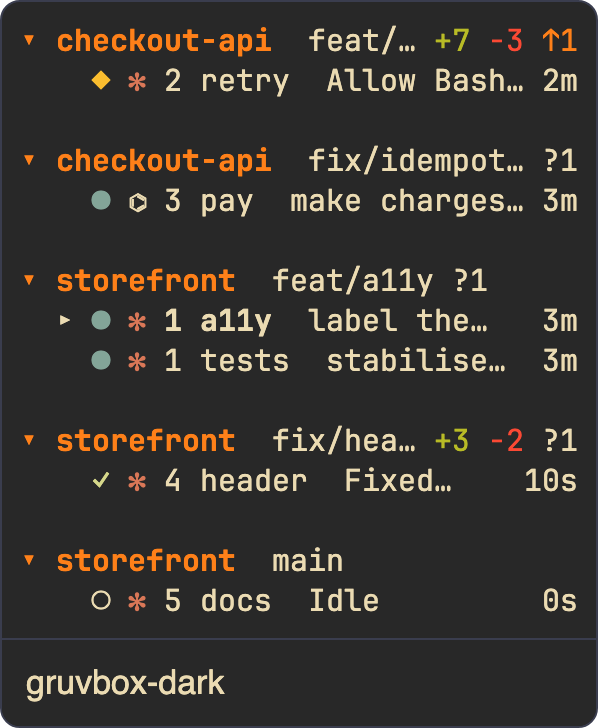
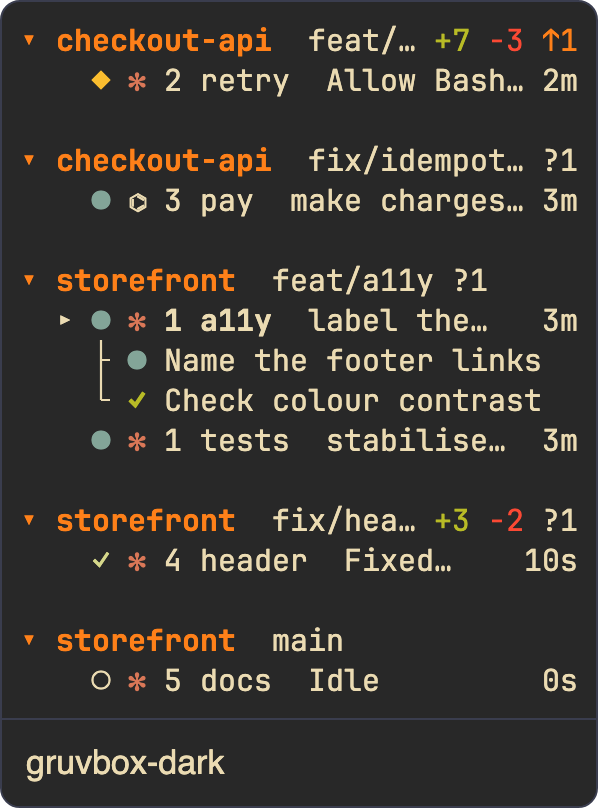
docs(readme): show sub-agents, give the sidebar its own section
The capture script now has a11y hand off two tasks through the real hook
path, so every capture shows a working and a finished sub-agent row. The
README's worktree section keeps the commands and the form; the sidebar,
no longer floated beside text, gets its own section with a legend of
state glyphs and worktree badges and the sub-agent paragraph.

diff --git a/scripts/capture_readme.py b/scripts/capture_readme.py
@@ -39,7 +39,7 @@ COLS, ROWS = 108, 26
 CELL_W, CELL_H, FONT_PX = 9, 20, 15
 PAD = 10
 CAPTION_H = 44
-SIDEBAR = (0, 0, 31, 15)            # the sidebar's rows in the demo session
+SIDEBAR = (0, 0, 31, 17)            # the sidebar's rows in the demo session
 TERM_FG, TERM_BG = "#d5d8e4", "#14151c"
 CHROME = (shutil.which("google-chrome") or shutil.which("chromium")
           or "/Applications/Google Chrome.app/Contents/MacOS/Google Chrome")
@@ -85,8 +85,8 @@ def act(cmd):
     if "screen" in cmd:
         text = "\x1b[?25l\x1b[2J\x1b[H" + cmd["screen"].replace("\n", "\r\n")
         os.write(1, text.encode())
-    if "hook" in cmd:
-        event = dict(cmd["hook"], cwd=os.getcwd())
+    for hook in cmd.get("hooks", [cmd["hook"]] if "hook" in cmd else []):
+        event = dict(hook, cwd=os.getcwd())
         subprocess.run([monarch, "hook", kind], input=json.dumps(event).encode(),
                        stdout=subprocess.DEVNULL, stderr=subprocess.DEVNULL)
     pending = cmd.get("on_key", pending if "on_key" not in cmd else None)
@@ -150,8 +150,13 @@ A11Y = agent_screen("""{g}⏺{x} I'll label the nav landmarks,
 {g}⏺{x} {w}Bash{x}(npm run test:a11y)
   {d}⎿  31 passed, 2 failed{x}
 
-{g}⏺{x} Two failures: the footer links
-  have no accessible name.
+{g}⏺{x} Two failures. Handing them off.
+
+{g}⏺{x} {w}Agent{x}(Name the footer links)
+  {d}⎿  Running in the background{x}
+
+{g}⏺{x} {w}Agent{x}(Check colour contrast)
+  {d}⎿  Done{x}
 
 {o}✻{x} Thinking… {d}(41s){x}""", SPLIT_W)
 TESTS = agent_screen("""{g}⏺{x} I'll run the suite until it's
@@ -229,6 +234,23 @@ SCENE = {
 }
 SPLIT = {"tests": ("claude", "storefront-worktrees/feat-a11y")}
 TABS = ["a11y", "retry", "pay", "header", "docs"]
+
+
+def handoff(agent_id, task, *inside):
+    """a11y's Agent tool starting a background sub-agent for `task`, then
+    the events the sub-agent itself sends (they carry its `agent_id`)."""
+    started = {"hook_event_name": "SubagentStart", "agent_id": agent_id, "agent_type": "general-purpose"}
+    named = {"hook_event_name": "PostToolUse", "tool_name": "Agent", "tool_input": {"description": task},
+             "tool_response": {"status": "async_launched", "agentId": agent_id, "description": task}}
+    return [started, named] + [dict(e, agent_id=agent_id, agent_type="general-purpose") for e in inside]
+
+
+SUBAGENTS = (handoff("a11y-links", "Name the footer links",
+                     {"hook_event_name": "PreToolUse", "tool_name": "Grep",
+                      "tool_input": {"pattern": "<a href", "path": "src/footer.tsx"}})
+             + handoff("a11y-contrast", "Check colour contrast",
+                       {"hook_event_name": "SubagentStop",
+                        "last_assistant_message": "All text meets WCAG AA contrast."}))
 STOP_HEADER = {"hook_event_name": "Stop", "last_assistant_message":
                "Fixed the overlap on narrow screens. The header now wraps below 640px."}
 COMMAND = {"command": "cargo clean && cargo test retry"}
@@ -688,7 +710,9 @@ def start(host):
     host.pump(0.3)
     type_text(host, "a11y")
     host.keys(b"\r")
-    host.pump(2.5)
+    host.pump(0.5)
+    host.tell("a11y", hooks=SUBAGENTS)
+    host.pump(2.0)
 
 
 CAPTIONS = {

diff --git a/docs/plan.md b/docs/plan.md
@@ -406,6 +406,7 @@ Explicitly out of v1: Windows, remote SSH machine management, plugins, image pro
   - [x] Pop-ups stand out (2026-11-16, user's request: "when they pop, I want them more pronounced"): every pop-up (pickers and the inbox, the worktree form, help and agent info, review, the context menu, which-key, the welcome card) now draws through one `PopupFrame` (`widgets/popup_frame.rs`): cleared, filled with the new `popup` theme token (a raised surface: each palette's surface colour, `#eeece6` in monarch-light) with text in `bar_text`, a rounded border in the accent, the title in the accent and key hints dim. Its inside is the same one cell in as before, so placement, clicks and the cursor are unchanged. Under `NO_COLOR` the border is bold on the host's background. `PickerView` and `ContextMenuView` gained `chrome`. `THEME_TOKENS` is 19; `popup` can be overridden in `[theme.colors]`. Theme isn't on the wire, so `Hello::WIRE` is unchanged.
   - [x] Scripts renamed by what they are (2026-11-19, user's request: "not a fan of the spike…py name"): `scripts/<kind>_<subject>`: `smoke_single_pane.py`, `smoke_input_matrix.py`, `smoke_attach.py`, `smoke_mouse.py`, `smoke_restore.py` (were `spike{1,3,4,5,6}_*.py`), `bench_attach.py` (was `perf_attach.py`), `capture_readme.py` (was `readme_shots.py`), `lint_size.sh` (was `lint-size.sh`). References in the justfile, CI, README, DESIGN.md and this plan follow; the scripts' headers, temp-directory prefixes (kept short: macOS caps a socket path at 103 bytes) and `ok` lines no longer say "spike". `just` recipe names are unchanged (`smoke`, `bench-attach`, `readme-shots`, `lint-size`), as is the Rust example `spike4_bench`; CHANGELOG.md keeps the old names as history.
   - [x] README made more professional, images regenerated (2026-11-19, user's request). The "A day with six agents" timeline (timestamp headings) is now a **Features** section with one heading per feature (worktrees, attention inbox, agent state, terminal fidelity, diff review, detach and SSH, restore, automation, themes); casual phrasing is gone, "about two weeks old" and the "Early" note are replaced, the install section gained First run and Upgrading headings. `DESIGN.md` describes the new structure. Every image was regenerated with `just readme-shots` (last done 2026-11-06), so they now show the pop-up surface and accent border, the lower-case mouse badge and the current sidebar; the social preview carries the new tagline and must be re-uploaded by hand in the repo's settings. Alt text for the agent info and restore stills follows the new captures. Not done: the comparison table is still as checked on 2026-11-05; no capture shows sub-agent rows (the scripted agents spawn none).
+  - [x] README shows sub-agents; sidebar gets its own section (2026-11-19, user's request: illustrate sub-agents, and the worktree section's image layout was disliked). `capture_readme.py`: a scripted agent can send several hook events per command (`hooks`), and `a11y` hands off two tasks through the real hook path (`SubagentStart`, the Agent tool's `PostToolUse` naming each by its task, then the sub-agent's own `PreToolUse` or `SubagentStop`), so every capture shows a working and a finished sub-agent row under it; `SIDEBAR` grew to 17 rows. README: the worktree section keeps the commands and the form (centred); the right-floated sidebar became its own section, "Every agent at a glance", with the sidebar centred, a legend of state glyphs and worktree badges, and the sub-agent paragraph. `DESIGN.md`: nothing floats beside text. The social preview changed again and must be re-uploaded by hand.
 - Next up: sub-agent slice 3 (a manifest count capture for hook-less agents: Grok's "Waiting on subagent…", Antigravity's "· N tasks"); mouse report re-encoding for multi-pane layouts; the remnant text re-reported on 2026-11-12 is unreproduced and waits for the user's next sighting (does it survive detach + reattach?); named layouts (`Space`) stay parked by the user's decision on 2026-11-08. Beyond those, the open M1 spikes and known gaps below. v0.1.6 was released on 2026-11-16 UTC (release PR #142: Codex sub-agent rows, pop-ups on their own surface with an accent border, the lower-case mouse badge, two dependency bumps). v0.1.5 was released on 2026-11-16 UTC (release PR #129: Claude Code sub-agent rows in the sidebar, named by their task, the `SubagentStart`/`SubagentStop` hooks, hooks kept in step with the installed build, the breathing working dot); the README and guide now describe sub-agents. v0.1.4 was released on 2026-11-13 UTC (release PR #124: underline styles, the session switch without a flash, emoji presentation width); v0.1.3 on 2026-11-09 (release PR #119). v0.1.2 was released on 2026-11-08 (release PR #113: the remnant-text fix, two dependency bumps). v0.1.1 was released on 2026-11-07 (release PR #102: the agent info overlay and go-to filters, time in state, config settings acted on, key popup fixes; the README's two version mentions, the comparison's latest release and the `cargo install --tag` line, are updated by hand after each release). v0.1.0 was released on 2026-11-06 (tag, GitHub Release with binaries and installer, Homebrew tap formula); crates.io publishing stays off (`git_only`).
 - Known gaps: the client starts the server with its own environment (`monarch server` inherits the attaching shell's cwd and env; fine for one user, revisit for `monarch new`); the startup probe is sent once per attach, not re-sent on FocusGained; the host title is set to the pane's (possibly empty) title on attach and restored on exit; memory is mostly scrollback (≈70 MB per flooded 200-column pane at 10k lines; use `agent_scrollback` for agent panes or compact history later); a pane flooding output costs about one core of parsing even when hidden (inherent to G13; real agents are far below that rate); the writer channel is unbounded (a huge paste into a program that never reads stdin grows memory); mouse reports pass through unre-encoded in the prototype (correct only for one full-screen pane; re-encoding is spike 5); the server must keep the last client's `HostInfo` so panes started before an attach still answer OSC 10/11 with host colours; Claude Code OSC 7501 probe behaviour (spike 2); crates publish as `monarch-mux-*` (`monarch-core` was taken on crates.io; `[lib] name` keeps `monarch_core` imports) and release-plz publishes them in dependency order; releases need repo secrets `RELEASE_PLZ_TOKEN` (PAT), `HOMEBREW_TAP_TOKEN` (PAT with write to `cooksterj/homebrew-monarch`) and `CARGO_REGISTRY_TOKEN`; installer artifact is `monarch-mux-installer.sh`; macOS blocks a process exiting until its tty output is drained, so PTY test harnesses must keep reading
 

diff --git a/README.md b/README.md
@@ -24,7 +24,7 @@ brew tap cooksterj/monarch && brew trust cooksterj/monarch && brew install cooks
 
 <picture>
   <source media="(max-width: 600px)" srcset="docs/assets/hero-phone.webp">
-  <img src="docs/assets/hero.webp" width="100%" alt="A recording of Monarch with six agents in a sidebar grouped by git repository. The agent named retry, in another tab, shows an amber diamond because it needs permission to run a command. The user opens the inbox, types 1 to answer without leaving the pane they are in, and retry goes back to work. They then jump to the agent named header, which has finished, and read its diff.">
+  <img src="docs/assets/hero.webp" width="100%" alt="A recording of Monarch with six agents, and two sub-agents under a11y, in a sidebar grouped by git repository. The agent named retry, in another tab, shows an amber diamond because it needs permission to run a command. The user opens the inbox, types 1 to answer without leaving the pane they are in, and retry goes back to work. They then jump to the agent named header, which has finished, and read its diff.">
 </picture>
 
 <sub>Recorded from the real binary in a PTY. The agents are scripted, the repositories are disposable, and the captions and amber ring were added for the recording. [`scripts/capture_readme.py`](scripts/capture_readme.py) regenerates every image on this page.</sub>
@@ -34,7 +34,7 @@ brew tap cooksterj/monarch && brew trust cooksterj/monarch && brew install cooks
 
 ## Features
 
-[Worktrees](#parallel-agents-in-isolated-worktrees) · [Attention inbox](#an-inbox-for-agents-waiting-on-you) · [Agent state](#where-agent-state-comes-from) · [Terminal fidelity](#terminal-fidelity) · [Diff review](#built-in-diff-review) · [Detach and SSH](#detach-and-reattach-from-anywhere) · [Restore](#restore-after-a-crash) · [Automation](#automation-from-the-cli) · [Themes](#themes-and-key-presets)
+[Worktrees](#parallel-agents-in-isolated-worktrees) · [Sidebar](#every-agent-at-a-glance) · [Attention inbox](#an-inbox-for-agents-waiting-on-you) · [Agent state](#where-agent-state-comes-from) · [Terminal fidelity](#terminal-fidelity) · [Diff review](#built-in-diff-review) · [Detach and SSH](#detach-and-reattach-from-anywhere) · [Restore](#restore-after-a-crash) · [Automation](#automation-from-the-cli) · [Themes](#themes-and-key-presets)
 
 ### Parallel agents in isolated worktrees
 
@@ -46,15 +46,29 @@ monarch new fix/idempotency --agent codex --detached
 monarch new feat/a11y --agent claude
 ```
 
-<img align="right" width="38%" src="docs/assets/sidebar.png" alt="Monarch's sidebar. Panes are grouped under checkout-api and storefront by branch, each with a state glyph, an agent icon, a name and its current activity. One branch shows plus 7, minus 3 and 1 commit to push.">
-
-No configuration is required. The sidebar derives each pane's repository and worktree from its working directory and shows how each checkout differs from its upstream: `+7` `−3` lines changed, `?1` untracked files, `↑1` commits to push.
-
 From inside Monarch, `prefix N` opens the same action as a form. The prefix is `Ctrl-b`, and every key is [rebindable](docs/guide.md#keys).
 
-<img src="docs/assets/worktree.png" width="440" alt="The new worktree form, with the branch name feat/parser typed in and a choice of starting a shell, Claude Code or Codex.">
+<p align="center">
+  <img src="docs/assets/worktree.png" width="560" alt="The new worktree form, with the branch name feat/parser typed in and a choice of starting a shell, Claude Code or Codex.">
+</p>
 
-<br clear="right">
+### Every agent at a glance
+
+The sidebar groups panes by repository and worktree, derived from each pane's working directory with no configuration. Each row shows the agent's state, its program, its name, what it is doing and how long its current turn has taken. Each worktree's heading shows how it differs from its upstream.
+
+<p align="center">
+  <img src="docs/assets/sidebar.png" width="300" alt="Monarch's sidebar. Panes are grouped under checkout-api and storefront by branch, each with a state glyph, an agent icon, a name, its current activity and a stopwatch. Under the a11y agent, two indented sub-agent rows: Name the footer links, working, and Check colour contrast, done. The feat/retry branch shows plus 7, minus 3 and 1 commit to push.">
+</p>
+
+| State | | Worktree badge | |
+|:---:|---|:---:|---|
+| `●` | working | `+7` `−3` | lines added and removed |
+| `◆` | blocked, waiting on you | `?1` | untracked files |
+| `○` | idle | `↑1` `↓1` | commits ahead of and behind upstream |
+| `✓` | done | | |
+| `✗` | error | | |
+
+**Sub-agents** appear as indented rows beneath the agent that started them, named by their task and marked with the same glyphs: Claude Code's sub-agents and teammates, and agents Codex spawns. A sub-agent's question blocks its parent, so it reaches the inbox like any other. Finished rows remain until your next prompt, so you can see what was done.
 
 ### An inbox for agents waiting on you
 
@@ -63,8 +77,6 @@ When an agent in another tab needs a decision, such as permission to run a comma
 `prefix a` opens the attention inbox: every agent waiting on you, longest wait first, with its question or last message and how long it has been waiting. Press `y`, `n` or a number to answer; Monarch sends the reply to that agent in the form it expects, and you stay in your current pane. `Enter` jumps to the agent's pane instead, `prefix Tab` goes directly to the next blocked agent, and `prefix g` then `b` filters the pane list to blocked agents.
 
 <img src="docs/assets/inbox.png" width="640" alt="The inbox. It lists retry, blocked on 'Allow Bash cargo clean and cargo test', and header, done with its last message. A hint line reads: move, enter jump, y/n/1-9 answer, esc close.">
-
-Sub-agents are tracked too. When Claude Code delegates to sub-agents or teammates, or Codex spawns agents, each appears as a row beneath its parent, named by its task and marked with the same state glyphs. A sub-agent's question blocks its parent, so it reaches the inbox like any other. Finished rows remain until your next prompt, so you can see what was done.
 
 ### Where agent state comes from
 

diff --git a/DESIGN.md b/DESIGN.md
@@ -180,7 +180,7 @@ A warm butterfly over cool terminal chrome, where saturated colour is reserved f
 
 The app is a character grid: a sidebar, panes, and a status bar, all whole cells. Density is the terminal's.
 
-The README is a single GitHub column. The mark, name and promise are centred above the install command and a full-width hero. Images size by attribute: `100%` for full screens, `38%` right-floated for the sidebar, `32%` each for the row of three themes, and fixed widths of 440, 560 and 640 for popups and the diagram. `<picture>` swaps in phone crops at `max-width: 600px`.
+The README is a single GitHub column. The mark, name and promise are centred above the install command and a full-width hero. Images size by attribute: `100%` for full screens, `32%` each for the row of three themes, and fixed widths, centred, of 300 for the sidebar and 560 or 640 for popups and the diagram. Nothing floats beside text. `<picture>` swaps in phone crops at `max-width: 600px`.
 
 The README's Features section has one `###` heading per feature, named for what it does, with a line of jump links above them. This device belongs to the README and is not a rule for other surfaces.
 
